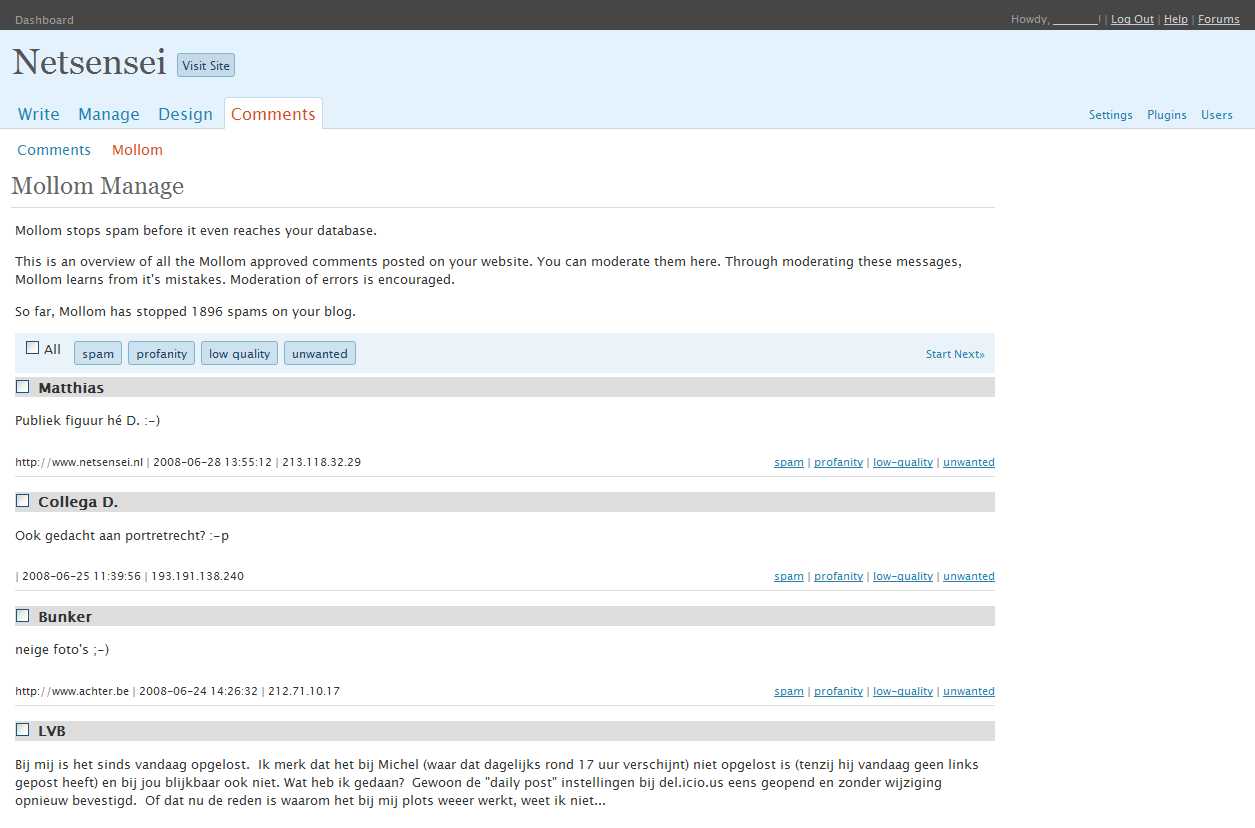
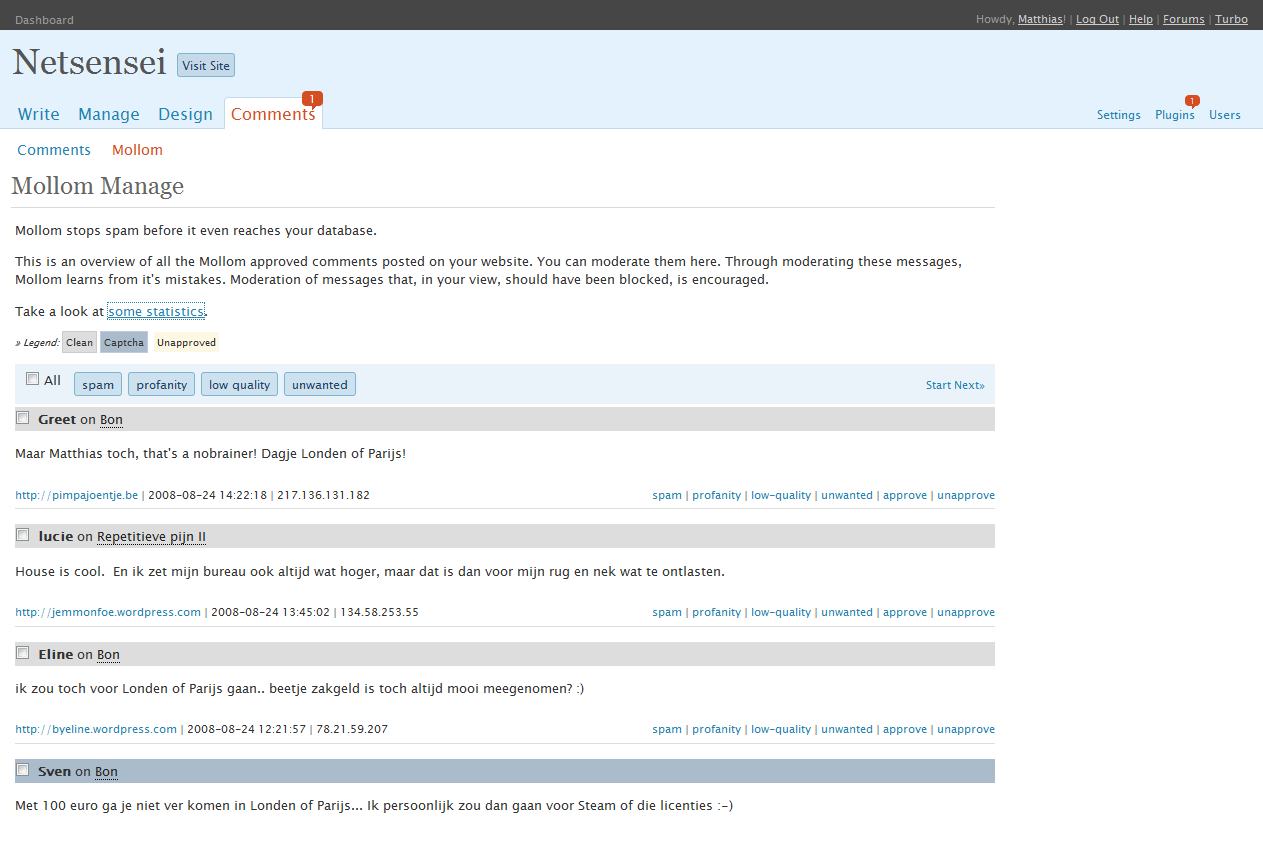
* release 0.6.0
git-svn-id: https://plugins.svn.wordpress.org/wp-mollom/trunk@61329 b8457f37-d9ea-0310-8a92-e5e31aec5664

diff --git a/wp-mollom.php b/wp-mollom.php
@@ -16,6 +16,7 @@ Version history:
 - 28 juni 2008: second public release
 - 1 juli 2008: small bugfix release
 - 20 juli 2008: small bugfix release
+- 24 augustus 2008: third public release
 */
 
 /*  Copyright 2008  Matthias Vandermaesen  (email : matthias@netsensei.nl) 
@@ -33,8 +34,8 @@ Version history:
 */
 
 define( 'MOLLOM_API_VERSION', '1.0' );
-define( 'MOLLOM_VERSION', '0.6.0-dev' );
-define( 'MOLLOM_USER_AGENT', 'WP Mollom for Wordpress ' . MOLLOM_VERSION );
+define( 'MOLLOM_VERSION', '0.6.0' );
+define( 'MOLLOM_USER_AGENT', '(Incutio XML-RPC) WP Mollom for Wordpress ' . MOLLOM_VERSION );
 define( 'MOLLOM_TABLE', 'mollom' );
 
 define( 'MOLLOM_ERROR'   , 1000 );
@@ -110,7 +111,7 @@ function mollom_activate() {
 		update_option('mollom_version', $version);
 		
 		// legacy code here: 
-		// 1. moving data from old to new data model if necessary
+		// 1. moving data from old to new data model if necessary (0.4 -> 0.5)
 		$comments_table = $wpdb->prefix . 'comments';
 			
 		// only update if mollom_session_id still exists
@@ -136,7 +137,7 @@ function mollom_activate() {
 			}
 		}
 
-		// 2. Add two extra coluns to the mollom table if not exist
+		// 2. Add anextra column to the mollom table
 		$stat = true;
 		foreach ($wpdb->get_col("DESC $mollom_table", 0) as $column ) {
 			if ($column == 'mollom_had_captcha') {
@@ -216,7 +217,7 @@ add_action('admin_menu','mollom_manage_page');
 function mollom_statistics_page() {
 	global $submenu;
 	if ( isset( $submenu['plugins.php'] ) )
-		add_submenu_page('plugins.php', __('Caught Spam'), 'Mollom', 'manage_options', 'mollommanage', 'show_statistics');
+		add_submenu_page('plugins.php', __('Caught Spam'), 'Mollom', 'manage_options', 'mollommanage', 'mollom_statistics');
 }
 add_action('admin_menu','mollom_statistics_page');
 
@@ -239,6 +240,10 @@ function _mollom_set_plugincount($action) {
 			update_option('mollom_ham_count', $count);
 			break;
 		case "unsure":
+			// make a spam count into an unsure count if a captcha was correctly completed!
+			$count = get_option('mollom_spam_count');
+			$count--;
+			update_option('mollom_spam_count', $count);
 			$count = get_option('mollom_unsure_count');
 			$count++;
 			update_option('mollom_unsure_count', $count);
@@ -255,7 +260,7 @@ function _mollom_set_plugincount($action) {
 * show_statistics
 * Shows statistics from the Mollom servers in the Wordpress administration module (hooks on plugins.php)
 */
-function show_statistics() {
+function mollom_statistics() {
 ?>
 <div class="wrap">
 <h2><?php _e('Mollom Statistics'); ?><h2>
@@ -328,10 +333,13 @@ function _mollom_calc_statistics($mode = 'nominal') {
 /**
 * mollom_graphs()
 * print out a nice XHTML/CSS graph with a breakdown of all the locally stored Mollom statistics
+* @param boolean $css If set to false, you can override the CSS of the bargraphs with your own CSS (Usefull in a theme CSS file)
 */
-function mollom_graphs() {
+function mollom_graphs($css = true) {
 	$count_percentage = _mollom_calc_statistics('percentage');
 	$count_nominal = _mollom_calc_statistics('nominal');
+	
+if ($css) {
 ?>
 <style type="text/css">
 #mollom-bar-graph {
@@ -368,6 +376,7 @@ function mollom_graphs() {
 }
 
 </style>
+<?php } ?>
 <div id="mollom-bar-graph">
 	<p><?php _e('WP Mollom has processed a total of <strong>'); echo $count_percentage['total']; _e('</strong> messages.'); ?>
 	<ul>
@@ -1071,7 +1080,7 @@ function mollom_check_comment($comment) {
 	
 		elseif($result['spam'] == MOLLOM_ANALYSIS_UNSURE) {
 			// show a CAPTCHA and and set the count of blocked messages
-			_mollom_set_plugincount("unsure");	
+			_mollom_set_plugincount("spam");
 			$mollom_comment = array('comment_post_ID' => $comment['comment_post_ID'],
 									'mollom_sessionid' => $result['session_id'],
 									'author' => $comment['comment_author'],
@@ -1140,17 +1149,20 @@ function mollom_check_trackback($comment) {
 		
 	if($result['spam'] == MOLLOM_ANALYSIS_HAM) {
 		// let the comment pass
+		_mollom_set_plugincount("ham");
 		add_action('comment_post', '_mollom_save_session', 1); // save session!!
 		return $comment;
 	}
 
 	elseif ($result['spam'] == MOLLOM_ANALYSIS_SPAM) {
 		// kill the process here because of spam detection
+		_mollom_set_plugincount("spam");
 		_mollom_trackback_error('spam', 'Mollom recognized your trackback as spam.');
 	}
 	
 	elseif($result['spam'] == MOLLOM_ANALYSIS_UNSURE) {
-		// kill the process here because of unsure detection
+		// kill the process here because of unsure detection (Trackbacks don't get a CAPTCHA)
+		_mollom_set_plugincount("spam");
 		_mollom_trackback_error('unsure', 'Mollom could not recognize your trackback as spam or ham.');
 	}
 		
@@ -1234,6 +1246,7 @@ function mollom_check_captcha($comment) {
 			$comment['comment_content'] = htmlspecialchars_decode($comment['comment_content']);
 			add_action('comment_post', '_mollom_save_session', 1);
 			add_action('comment_post', '_mollom_save_had_captcha', 1);
+			_mollom_set_plugincount("unsure");
 			return $comment;
 		}
 		
